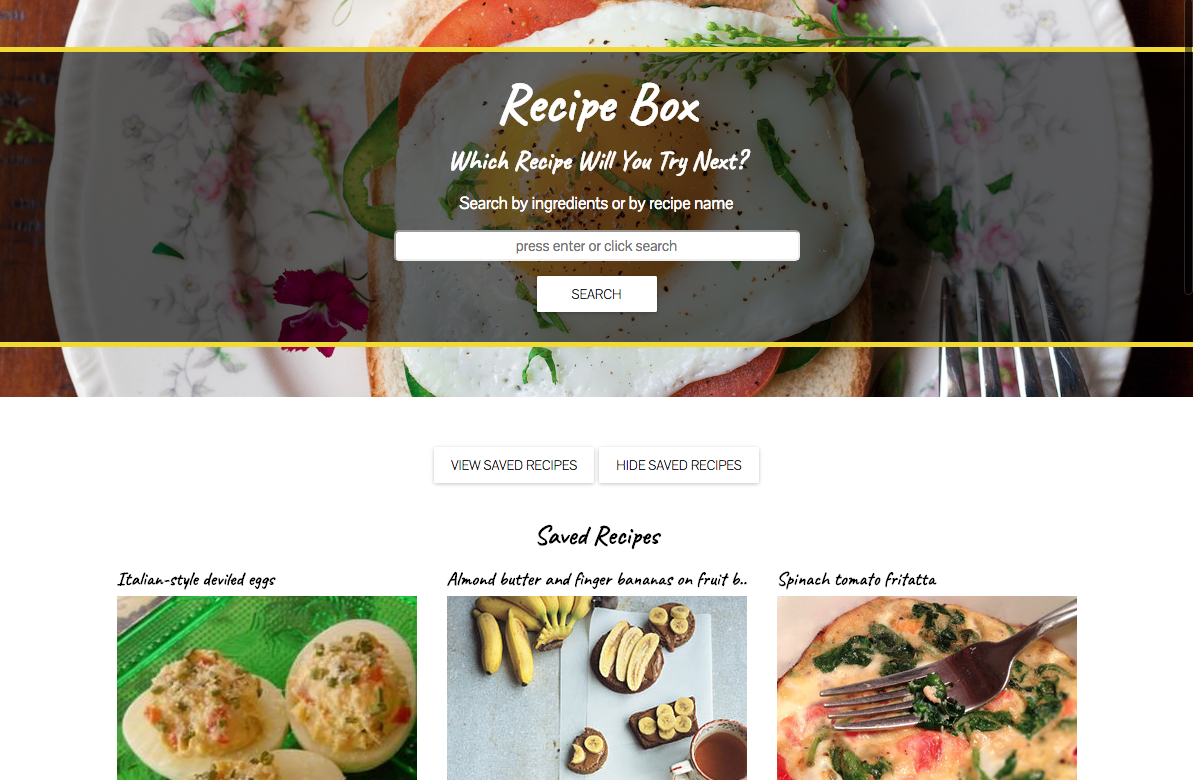
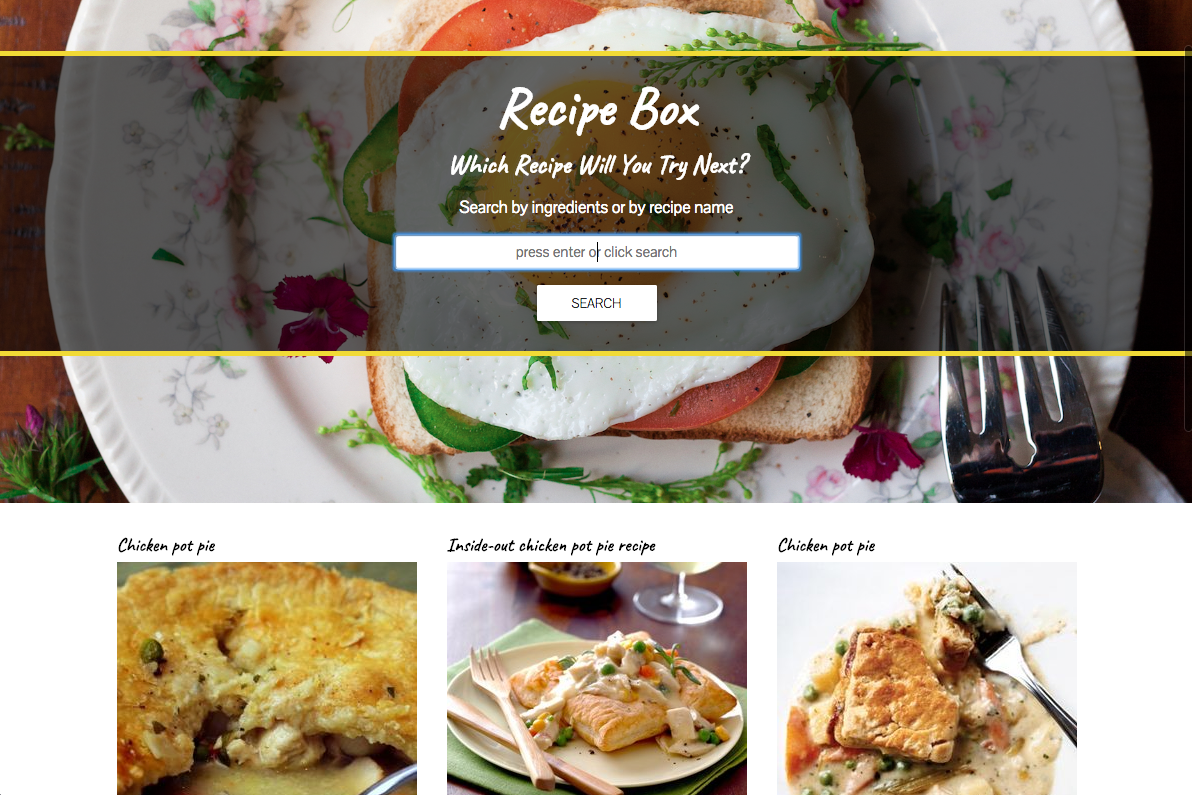
increased size of main photo

diff --git a/client/scss/index.scss b/client/scss/index.scss
@@ -123,7 +123,7 @@ input {
     background: url('https://s3.us-east-2.amazonaws.com/trig010/egg_header.jpg') center center no-repeat;
     background-size: cover;
     min-width: 100%;
-    height: 400px;
+    height: 600px;
     margin-bottom: 15px;
     display: flex;
     flex-direction: column;
@@ -294,7 +294,7 @@ hr {
         margin: 0 0 5px;
     }
     .food-carousel {
-      height: 425px;
+      height: 575px;
     }
     .recipe-title {
         text-align: center;
